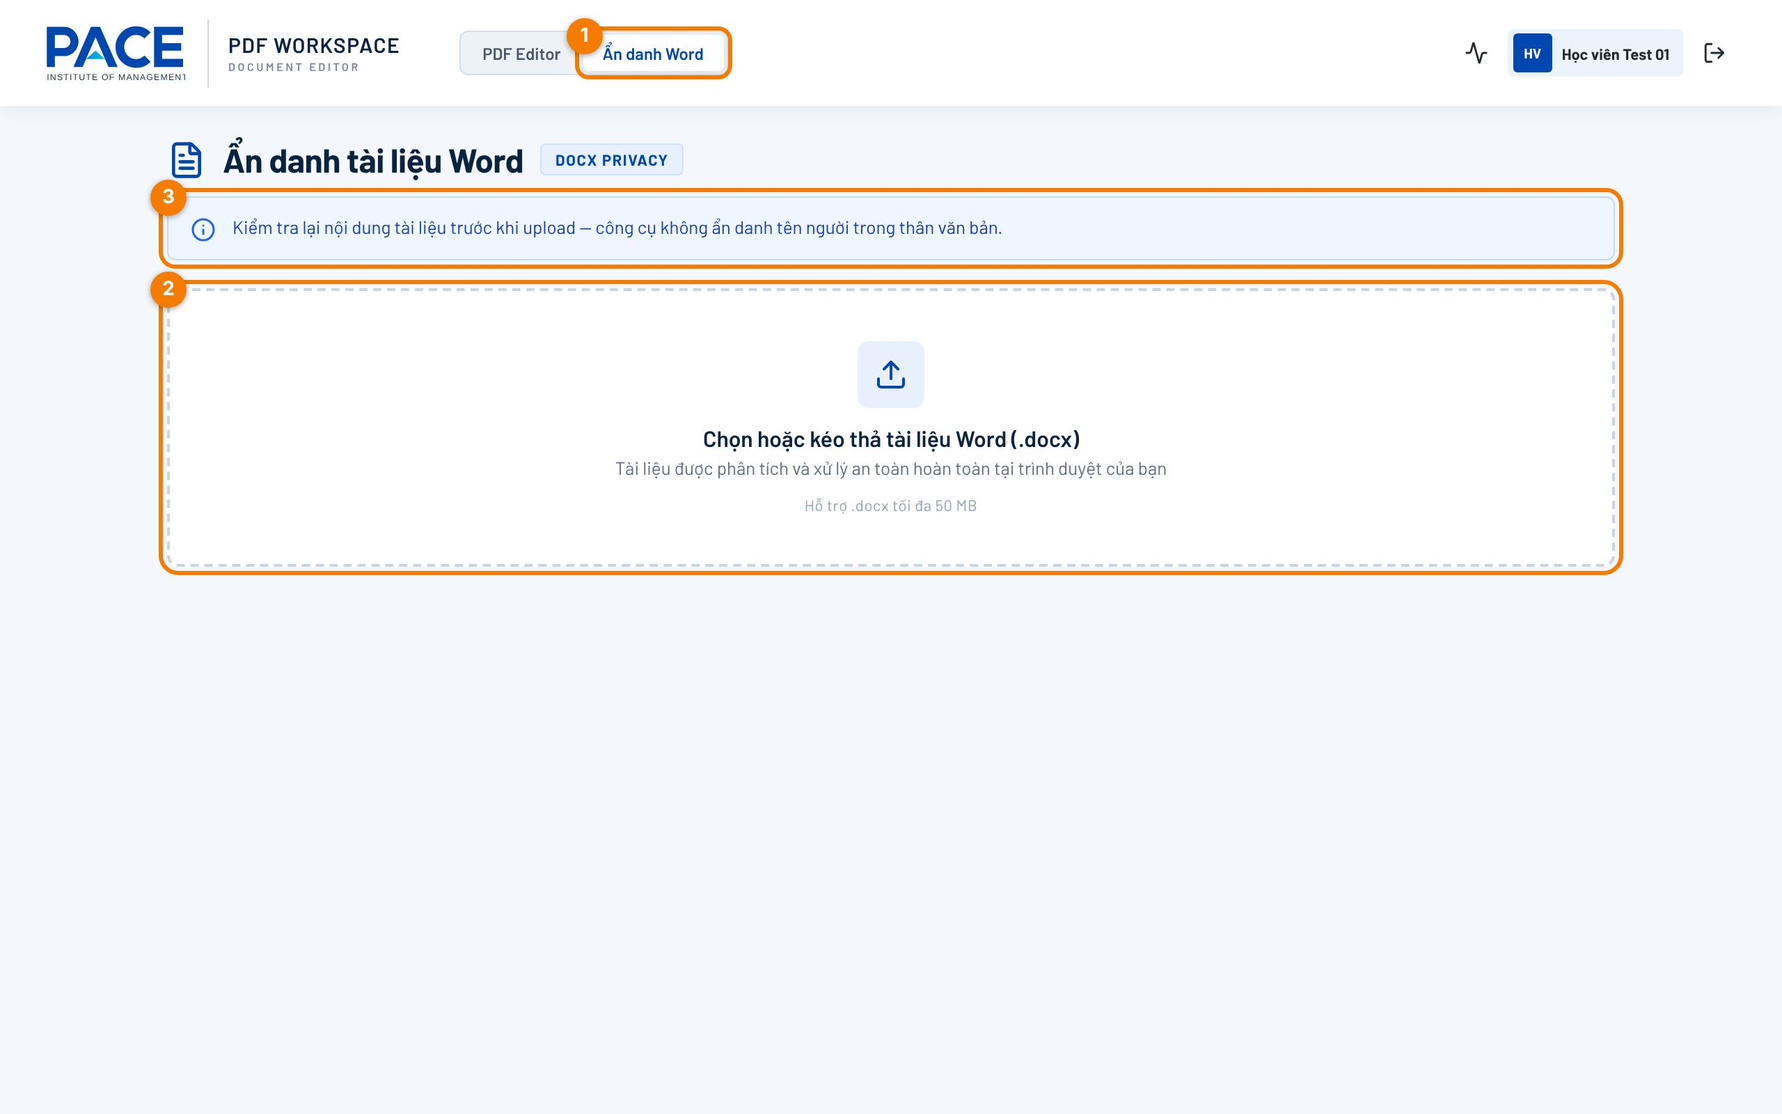
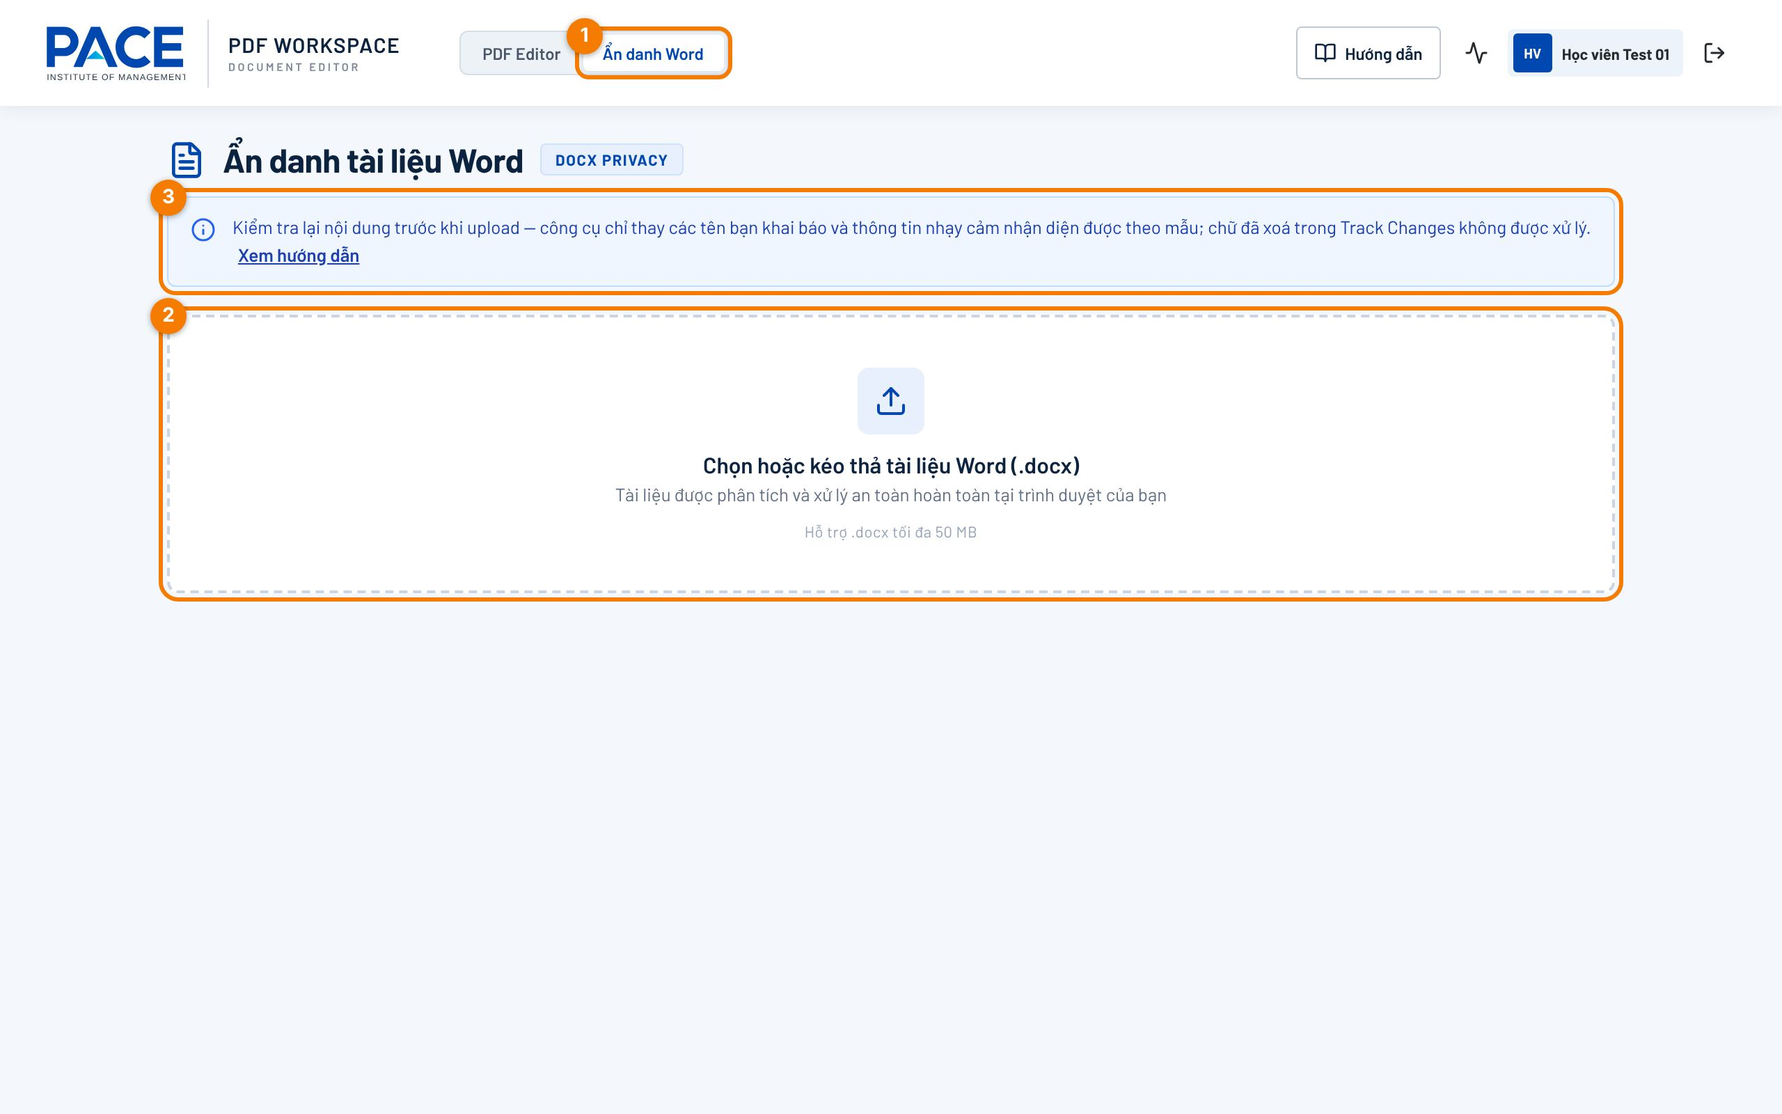
docs(guide): cover entities, sensitive-data masking, mobile menu; refresh screenshots; F-10 adds font fix
Claude-Session: https://claude.ai/code/session_01J4j3HtUKRCDDGj52C9EpEb

Changed region(s): [[0.0625, 0.3438, 0.9375, 0.5625], [0.0625, 0.1875, 0.9375, 0.3125], [0.7188, 0.0312, 0.8125, 0.0625]]

diff --git a/public/huong-dan/index.html b/public/huong-dan/index.html
@@ -85,7 +85,7 @@
 <header class="hero">
   <div class="wrap">
     <h1>Hướng dẫn sử dụng PDF Workspace</h1>
-    <p>Chỉnh sửa PDF và ẩn danh người bình luận trong file Word trước khi đưa tài liệu vào công cụ AI. Tài liệu được xử lý <b>ngay trên trình duyệt của bạn</b>, không tải lên máy chủ.</p>
+    <p>Chỉnh sửa PDF và ẩn danh tài liệu Word (người bình luận, pháp nhân, người đại diện, thông tin nhạy cảm) trước khi đưa tài liệu vào công cụ AI. Tài liệu được xử lý <b>ngay trên trình duyệt của bạn</b>, không tải lên máy chủ.</p>
     <a class="back" href="/">← Mở PDF Workspace</a>
   </div>
 </header>
@@ -96,7 +96,7 @@
     <ol>
       <li><a href="#dang-nhap">Đăng nhập</a></li>
       <li><a href="#pdf">Chỉnh sửa PDF</a></li>
-      <li><a href="#word">Ẩn danh bình luận Word</a></li>
+      <li><a href="#word">Ẩn danh tài liệu Word</a></li>
       <li><a href="#ket-qua">Đọc kết quả PASS / WARN / FAIL</a></li>
       <li><a href="#truoc-khi-upload">Checklist trước khi đưa lên AI</a></li>
       <li><a href="#nhat-ky">Nhật ký hoạt động</a></li>
@@ -111,17 +111,23 @@
     <p class="lead">Dùng tài khoản Microsoft của PACE. Chỉ những tài khoản đã được quản trị viên cấp quyền mới đăng nhập được.</p>
     <figure>
       <a class="zoomable" href="img/01-dang-nhap.jpg" target="_blank" rel="noopener" title="Bấm để xem ảnh kích thước đầy đủ"><img src="img/01-dang-nhap.jpg" alt="Trang chủ PDF Workspace với nút Sign in with Microsoft được đánh dấu số 1" loading="lazy" width="1280" height="800"></a>
-      <figcaption><span class="n">1</span> Bấm <b>Sign in with Microsoft</b>, chọn tài khoản PACE trong cửa sổ đăng nhập của Microsoft.</figcaption>
+      <figcaption><span class="n">1</span> Mở lại trang hướng dẫn này bất cứ lúc nào. <span class="n">2</span> Bấm <b>Sign in with Microsoft</b>, chọn tài khoản PACE trong cửa sổ đăng nhập của Microsoft.</figcaption>
     </figure>
     <figure>
-      <a class="zoomable" href="img/02-trang-chu.jpg" target="_blank" rel="noopener" title="Bấm để xem ảnh kích thước đầy đủ"><img src="img/02-trang-chu.jpg" alt="Trang chủ sau khi đăng nhập, các vùng được đánh số 1 đến 3" loading="lazy" width="1280" height="800"></a>
+      <a class="zoomable" href="img/02-trang-chu.jpg" target="_blank" rel="noopener" title="Bấm để xem ảnh kích thước đầy đủ"><img src="img/02-trang-chu.jpg" alt="Trang chủ sau khi đăng nhập, các vùng được đánh số 1 đến 4" loading="lazy" width="1280" height="800"></a>
       <figcaption>Màn hình sau khi đăng nhập.</figcaption>
     </figure>
     <ul class="legend">
       <li><span class="n">1</span><span><b>Chọn công cụ:</b> <i>PDF Editor</i> để chỉnh sửa PDF, <i>Ẩn danh Word</i> để xử lý bình luận trong file Word.</span></li>
       <li><span class="n">2</span><span><b>Chọn tài liệu PDF</b> từ máy, hoặc kéo-thả file vào trang.</span></li>
-      <li><span class="n">3</span><span><b>Nhật ký hoạt động</b> của tài khoản bạn (xem <a href="#nhat-ky">mục 6</a>).</span></li>
+      <li><span class="n">3</span><span><b>Hướng dẫn:</b> mở trang này trong tab mới.</span></li>
+      <li><span class="n">4</span><span><b>Nhật ký hoạt động</b> của tài khoản bạn (xem <a href="#nhat-ky">mục 6</a>).</span></li>
     </ul>
+    <h3>Trên điện thoại</h3>
+    <figure style="max-width:420px">
+      <a class="zoomable" href="img/18-mobile-menu.jpg" target="_blank" rel="noopener" title="Bấm để xem ảnh kích thước đầy đủ"><img src="img/18-mobile-menu.jpg" alt="Menu ba chấm trên điện thoại với các mục Mở file, Hướng dẫn, Activity log, Đăng xuất" loading="lazy" width="390" height="400"></a>
+      <figcaption><span class="n">1</span> Màn hình hẹp chỉ hiện logo, bộ chuyển công cụ, nút Xuất PDF và nút <b>⋯</b>. Bấm <b>⋯</b> để mở: Mở file, Hướng dẫn, Activity log, Administration (quản trị viên), <b>Đăng xuất</b>.</figcaption>
+    </figure>
     <div class="note warn"><b>Cửa sổ đăng nhập không hiện?</b> Trình duyệt có thể đang chặn popup. Cho phép popup cho trang này rồi bấm đăng nhập lại.</div>
   </section>
 
@@ -161,14 +167,14 @@
 
   <!-- 3. Word -->
   <section id="word">
-    <h2>3. Ẩn danh bình luận Word</h2>
-    <p class="lead">Trước khi đưa file Word có <b>bình luận (comment)</b> hoặc <b>theo dõi thay đổi (Track Changes)</b> vào công cụ AI, dùng chức năng này để thay tên người góp ý bằng nhãn như <i>Người góp ý 1</i>. Nội dung tài liệu và nội dung bình luận được giữ nguyên.</p>
+    <h2>3. Ẩn danh tài liệu Word</h2>
+    <p class="lead">Trước khi đưa file Word có <b>bình luận (comment)</b> hoặc <b>theo dõi thay đổi (Track Changes)</b> vào công cụ AI, dùng chức năng này để thay tên người góp ý bằng nhãn như <i>Người góp ý 1</i>, thay tên <b>pháp nhân / người đại diện</b> bạn khai báo, và <b>che một phần</b> thông tin nhạy cảm trong văn bản. Phần còn lại của nội dung được giữ nguyên.</p>
 
     <div class="grid2">
-      <div class="note ok"><b>Được ẩn danh</b>
-        Tên và tên viết tắt người bình luận · tên người sửa trong Track Changes · người được @nhắc tên (kể cả email) · thông tin tác giả trong thuộc tính file (người tạo, người sửa cuối, công ty) · email/ID tài khoản Microsoft ẩn trong file.</div>
-      <div class="note warn"><b>KHÔNG được ẩn danh</b>
-        Tên người viết <b>trong thân văn bản</b> (ví dụ chữ ký cuối thư, danh sách học viên) · nội dung bên trong ảnh · file nhúng (Excel/Word lồng trong tài liệu). Bạn cần tự kiểm tra các phần này.</div>
+      <div class="note ok"><b>Được xử lý</b>
+        Tên và tên viết tắt người bình luận · tên người sửa trong Track Changes · người được @nhắc tên (kể cả email) · thông tin tác giả trong thuộc tính file · <b>tên pháp nhân, người đại diện bạn nhập</b> · <b>email, số điện thoại, CCCD/CMND, mã số thuế, số tài khoản, địa chỉ</b> nhận diện được theo mẫu, ở thân văn bản, header, footer, chú thích, bình luận.</div>
+      <div class="note warn"><b>KHÔNG được xử lý — bạn tự kiểm tra</b>
+        Tên người khác mà bạn <b>không khai báo</b> (vd. danh sách học viên) · thông tin viết không theo mẫu (vd. địa chỉ không có nhãn "Địa chỉ:") · <b>chữ đã xoá trong Track Changes</b> (chỉ được cảnh báo) · nội dung bên trong ảnh · file nhúng (Excel/Word lồng trong tài liệu).</div>
     </div>
 
     <ol class="steps">
@@ -176,7 +182,7 @@
         <b>Mở công cụ và chọn file.</b>
         <figure>
           <a class="zoomable" href="img/06-word-chon-file.jpg" target="_blank" rel="noopener" title="Bấm để xem ảnh kích thước đầy đủ"><img src="img/06-word-chon-file.jpg" alt="Màn hình Ẩn danh Word với vùng kéo thả file" loading="lazy" width="1280" height="800"></a>
-          <figcaption><span class="n">1</span> Chọn tab <b>Ẩn danh Word</b>. <span class="n">2</span> Kéo-thả hoặc bấm để chọn file <code>.docx</code> (tối đa 50 MB). <span class="n">3</span> Dòng nhắc luôn hiển thị: công cụ không ẩn danh tên trong thân văn bản.</figcaption>
+          <figcaption><span class="n">1</span> Chọn tab <b>Ẩn danh Word</b>. <span class="n">2</span> Kéo-thả hoặc bấm để chọn file <code>.docx</code> (tối đa 50 MB). <span class="n">3</span> Dòng nhắc luôn hiển thị phạm vi xử lý, kèm link tới trang hướng dẫn này.</figcaption>
         </figure>
       </li>
       <li>
@@ -197,6 +203,31 @@
         </figure>
       </li>
       <li>
+        <b>Khai báo pháp nhân và người đại diện</b> (nếu tài liệu có). Bấm <b>+ Thêm pháp nhân</b> / <b>+ Thêm người đại diện</b>, nhập <b>mọi cách viết</b> của cùng một đối tượng, mỗi dòng một cách (tên đầy đủ, tên viết tắt, tên tiếng Anh). Công cụ thay đúng những gì bạn nhập: không phân biệt hoa/thường, nhưng phân biệt có dấu/không dấu.
+        <figure>
+          <a class="zoomable" href="img/15-word-phap-nhan.jpg" target="_blank" rel="noopener" title="Bấm để xem ảnh kích thước đầy đủ"><img src="img/15-word-phap-nhan.jpg" alt="Thẻ Pháp nhân và người đại diện với ô tên gốc và nhãn thay thế" loading="lazy" width="1040" height="468"></a>
+          <figcaption><span class="n">1</span> Ô <b>Tên gốc</b>: mỗi dòng một cách viết. Nhãn mặc định là <i>Pháp nhân A</i>, <i>Người đại diện 1</i> — sửa được. <span class="n">2</span> Thêm đối tượng khác.</figcaption>
+        </figure>
+      </li>
+      <li>
+        <b>Xem lại thông tin nhạy cảm phát hiện được.</b> Công cụ tự tìm theo mẫu và cho xem trước dạng sau khi che. Mục nào cần giữ nguyên (vd. hotline công khai của PACE) thì <b>bỏ chọn ô "Che"</b>; không muốn xử lý cả một loại thì bỏ chọn loại đó ở hàng trên cùng.
+        <figure>
+          <a class="zoomable" href="img/16-word-nhay-cam.jpg" target="_blank" rel="noopener" title="Bấm để xem ảnh kích thước đầy đủ"><img src="img/16-word-nhay-cam.jpg" alt="Thẻ Thông tin nhạy cảm phát hiện được với bảng xem trước" loading="lazy" width="1040" height="915"></a>
+          <figcaption><span class="n">1</span> Bật/tắt theo loại. <span class="n">2</span> Ô <b>Che</b> từng mục. Danh sách có thể sót hoặc nhận nhầm — hãy xem lại trước khi chạy.</figcaption>
+        </figure>
+        <div class="table-wrap"><table>
+          <thead><tr><th>Loại</th><th>Nhận diện khi</th><th>Ví dụ</th><th>Sau khi che</th></tr></thead>
+          <tbody>
+            <tr><td>Email</td><td>Có dạng email</td><td><code>lienhe.test@example.com</code></td><td><code>l****@e****.com</code></td></tr>
+            <tr><td>Số điện thoại</td><td>Số di động/cố định Việt Nam (cả dạng <code>+84</code>, có dấu cách/chấm)</td><td><code>0912 345 678</code></td><td><code>09******78</code></td></tr>
+            <tr><td>CCCD/CMND</td><td>Có chữ "CCCD", "CMND", "căn cước"… đứng trước</td><td><code>CCCD số: 001234567890</code></td><td><code>*********890</code></td></tr>
+            <tr><td>Mã số thuế</td><td>Có chữ "MST", "mã số thuế"… đứng trước</td><td><code>MST: 0101234567-001</code></td><td><code>*******567-001</code></td></tr>
+            <tr><td>Số tài khoản</td><td>Có chữ "STK", "số tài khoản"… đứng trước</td><td><code>STK: 1234 5678 9012</code></td><td><code>********9012</code></td></tr>
+            <tr><td>Địa chỉ</td><td>Sau nhãn "Địa chỉ:", "Trụ sở:", "Trụ sở chính:", "Nơi cư trú:"…</td><td><code>Số 1 Đường Test, Phường Mẫu, Hà Nội</code></td><td><code>****, ****, Hà Nội</code></td></tr>
+          </tbody>
+        </table></div>
+      </li>
+      <li>
         <b>Chọn tuỳ chọn và bấm "Ẩn danh tài liệu".</b>
         <figure>
           <a class="zoomable" href="img/10-word-tuy-chon.jpg" target="_blank" rel="noopener" title="Bấm để xem ảnh kích thước đầy đủ"><img src="img/10-word-tuy-chon.jpg" alt="Thẻ Tùy chọn ẩn danh với nút Ẩn danh tài liệu" loading="lazy" width="1040" height="387"></a>
@@ -214,16 +245,20 @@
         </table></div>
       </li>
       <li>
-        <b>Đọc kết quả kiểm tra rò rỉ</b> (xem <a href="#ket-qua">mục 4</a>), rồi <b>tải file</b>.
+        <b>Đọc kết quả</b>: số lượng đã thay/che, và kết quả kiểm tra rò rỉ (xem <a href="#ket-qua">mục 4</a>), rồi <b>tải file</b>.
         <figure>
-          <a class="zoomable" href="img/12-word-tai-ve.jpg" target="_blank" rel="noopener" title="Bấm để xem ảnh kích thước đầy đủ"><img src="img/12-word-tai-ve.jpg" alt="Thẻ tải về tài liệu đã xử lý" loading="lazy" width="1040" height="249"></a>
+          <a class="zoomable" href="img/17-word-ket-qua-thay.jpg" target="_blank" rel="noopener" title="Bấm để xem ảnh kích thước đầy đủ"><img src="img/17-word-ket-qua-thay.jpg" alt="Kết quả thay thế và che dữ liệu" loading="lazy" width="1040" height="133"></a>
+        </figure>
+        <figure>
+          <a class="zoomable" href="img/12-word-tai-ve.jpg" target="_blank" rel="noopener" title="Bấm để xem ảnh kích thước đầy đủ"><img src="img/12-word-tai-ve.jpg" alt="Thẻ tải về tài liệu đã xử lý" loading="lazy" width="1040" height="252"></a>
           <figcaption><span class="n">1</span> Tải file đã ẩn danh. Tên file mặc định <code>document_anonymized.docx</code> (vì tên file gốc thường chứa tên người); có thể chọn giữ tên gốc.</figcaption>
         </figure>
       </li>
       <li><b>Bấm "Xoá khỏi bộ nhớ"</b> khi xong việc, nhất là trên máy dùng chung.</li>
     </ol>
 
-    <div class="note bad"><b>File mapping (JSON) chứa tên thật.</b> Tuỳ chọn "Tải file mapping" cho biết <i>Người góp ý 1</i> là ai. Chỉ lưu nội bộ khi thật sự cần, <b>tuyệt đối không</b> tải file này lên công cụ AI hay gửi ra ngoài.</div>
+    <div class="note warn"><b>Có cảnh báo "chữ đã xoá trong Track Changes"?</b> Phần chữ đã xoá vẫn nằm trong file và AI vẫn đọc được, nhưng công cụ <b>không</b> sửa phần này. Mở file trong Word, chọn <b>Review → Accept/Reject All Changes</b>, lưu lại rồi chạy lại.</div>
+    <div class="note bad"><b>File mapping (JSON) chứa tên thật.</b> Tuỳ chọn "Tải file mapping" cho biết <i>Người góp ý 1</i> là ai. File này cũng chứa tên pháp nhân và giá trị gốc của thông tin đã che. Chỉ lưu nội bộ khi thật sự cần, <b>tuyệt đối không</b> tải file này lên công cụ AI hay gửi ra ngoài.</div>
   </section>
 
   <!-- 4. Kết quả -->
@@ -240,16 +275,16 @@
     </table></div>
     <div class="grid2">
       <figure>
-        <a class="zoomable" href="img/11-word-ket-qua-pass.jpg" target="_blank" rel="noopener" title="Bấm để xem ảnh kích thước đầy đủ"><img src="img/11-word-ket-qua-pass.jpg" alt="Kết quả PASS" loading="lazy" width="1040" height="185"></a>
+        <a class="zoomable" href="img/11-word-ket-qua-pass.jpg" target="_blank" rel="noopener" title="Bấm để xem ảnh kích thước đầy đủ"><img src="img/11-word-ket-qua-pass.jpg" alt="Kết quả PASS" loading="lazy" width="1040" height="189"></a>
         <figcaption>Ví dụ kết quả <span class="pill ok">PASS</span>.</figcaption>
       </figure>
       <figure>
-        <a class="zoomable" href="img/13-word-ket-qua-fail.jpg" target="_blank" rel="noopener" title="Bấm để xem ảnh kích thước đầy đủ"><img src="img/13-word-ket-qua-fail.jpg" alt="Kết quả FAIL kèm vị trí còn sót" loading="lazy" width="1040" height="284"></a>
+        <a class="zoomable" href="img/13-word-ket-qua-fail.jpg" target="_blank" rel="noopener" title="Bấm để xem ảnh kích thước đầy đủ"><img src="img/13-word-ket-qua-fail.jpg" alt="Kết quả FAIL kèm vị trí còn sót" loading="lazy" width="1040" height="290"></a>
         <figcaption>Ví dụ <span class="pill bad">FAIL</span>: còn sót trong <code>customXml</code> (dữ liệu SharePoint).</figcaption>
       </figure>
     </div>
     <figure>
-      <a class="zoomable" href="img/14-word-fail-khoa-tai.jpg" target="_blank" rel="noopener" title="Bấm để xem ảnh kích thước đầy đủ"><img src="img/14-word-fail-khoa-tai.jpg" alt="Nút tải bị khoá và ô xác nhận Tôi đã hiểu rủi ro" loading="lazy" width="1040" height="325"></a>
+      <a class="zoomable" href="img/14-word-fail-khoa-tai.jpg" target="_blank" rel="noopener" title="Bấm để xem ảnh kích thước đầy đủ"><img src="img/14-word-fail-khoa-tai.jpg" alt="Nút tải bị khoá và ô xác nhận Tôi đã hiểu rủi ro" loading="lazy" width="1040" height="327"></a>
       <figcaption><span class="n">1</span> Khi FAIL, nút tải bị khoá cho tới khi bạn tick xác nhận.</figcaption>
     </figure>
   </section>
@@ -259,7 +294,9 @@
     <h2>5. Checklist trước khi đưa tài liệu lên AI</h2>
     <ul class="checklist">
       <li>Kết quả kiểm tra là <span class="pill ok">PASS</span>, hoặc mọi vị trí <span class="pill warn">WARN</span> đã được xử lý.</li>
-      <li>Đã đọc lướt <b>thân văn bản</b>: không còn họ tên, số điện thoại, email, CCCD, lương… của học viên, khách hàng, đồng nghiệp.</li>
+      <li>Đã khai báo đủ <b>pháp nhân và người đại diện</b>, gồm cả tên viết tắt/tên tiếng Anh.</li>
+      <li>Đã đọc lướt <b>thân văn bản</b>: không còn họ tên người khác (học viên, đồng nghiệp…), lương, địa chỉ viết không theo mẫu, hoặc thông tin trong ảnh.</li>
+      <li>Không có cảnh báo <b>chữ đã xoá trong Track Changes</b>, hoặc đã Accept/Reject All Changes.</li>
       <li>Tên file tải lên không chứa tên người hoặc tên khách hàng.</li>
       <li>Chỉ dùng <b>công cụ AI đã được PACE phê duyệt</b>.</li>
       <li>Tài liệu không thuộc nhóm nội dung cốt lõi (học liệu, nội dung tư vấn, tài liệu chiến lược) chưa được phép xử lý bằng AI.</li>
@@ -293,6 +330,12 @@
       <p>Đó là dữ liệu ẩn do SharePoint/OneDrive gắn vào file (ví dụ trường "Người phụ trách"). Công cụ chỉ cảnh báo, không tự sửa phần này. Cách đơn giản: copy toàn bộ nội dung sang một file Word mới tạo trên máy rồi chạy lại, hoặc liên hệ bộ phận IT.</p></details>
     <details><summary>Đổi nhãn sau khi đã chạy thì sao?</summary>
       <p>Kết quả cũ sẽ bị xoá và có dòng nhắc "Cấu hình đã thay đổi". Bấm <b>Ẩn danh tài liệu</b> lần nữa để tạo file mới.</p></details>
+    <details><summary>Vì sao một địa chỉ / số trong văn bản không bị che?</summary>
+      <p>Công cụ chỉ nhận diện theo mẫu. Địa chỉ cần có nhãn như "Địa chỉ:", "Trụ sở chính:"; CCCD, mã số thuế, số tài khoản cần có từ khoá đứng trước (vd. "CCCD", "MST", "STK"). Thông tin viết khác mẫu cần bạn tự sửa trong Word trước khi chạy.</p></details>
+    <details><summary>Một con số không phải số điện thoại nhưng bị che?</summary>
+      <p>Ví dụ số hợp đồng dạng <code>0912345678/HĐ</code>. Ở thẻ "Thông tin nhạy cảm phát hiện được", <b>bỏ chọn ô "Che"</b> của mục đó rồi chạy lại.</p></details>
+    <details><summary>Trên điện thoại không thấy nút Đăng xuất?</summary>
+      <p>Bấm nút <b>⋯</b> ở góc phải thanh trên cùng, chọn <b>Đăng xuất</b>.</p></details>
     <details><summary>Đăng nhập xong báo "Account is not authorized" hoặc "Tài khoản không được phép sử dụng hệ thống"?</summary>
       <p>Tài khoản của bạn chưa được cấp quyền. Liên hệ quản trị viên hệ thống (bộ phận DIGITECH) để được thêm vào danh sách người dùng.</p></details>
   </section>
